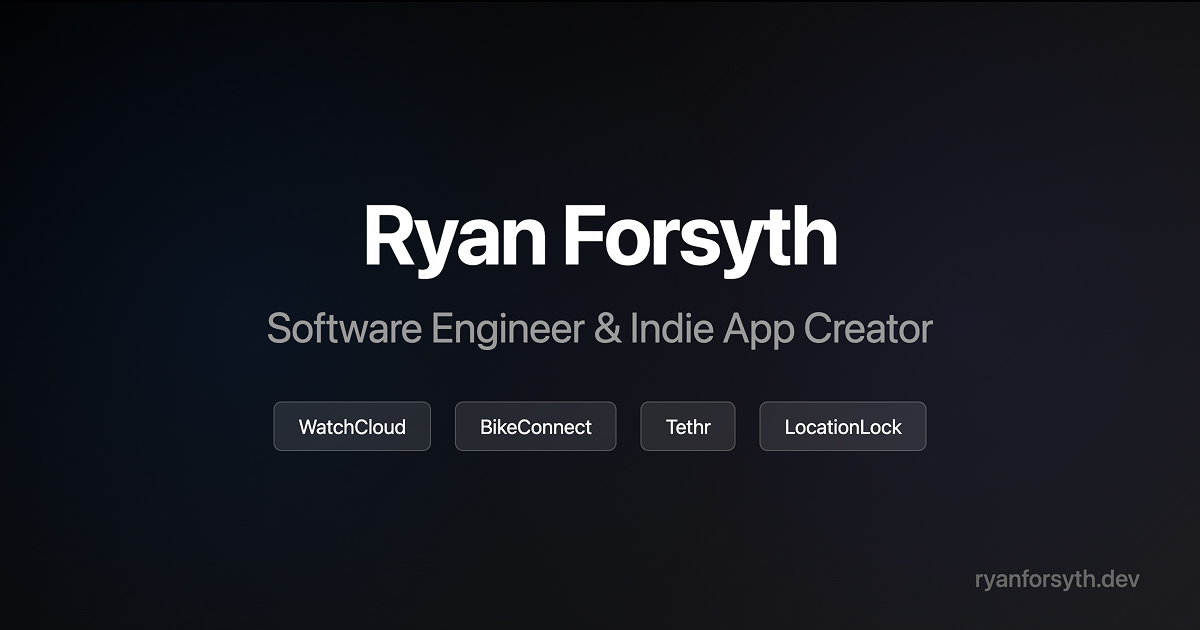
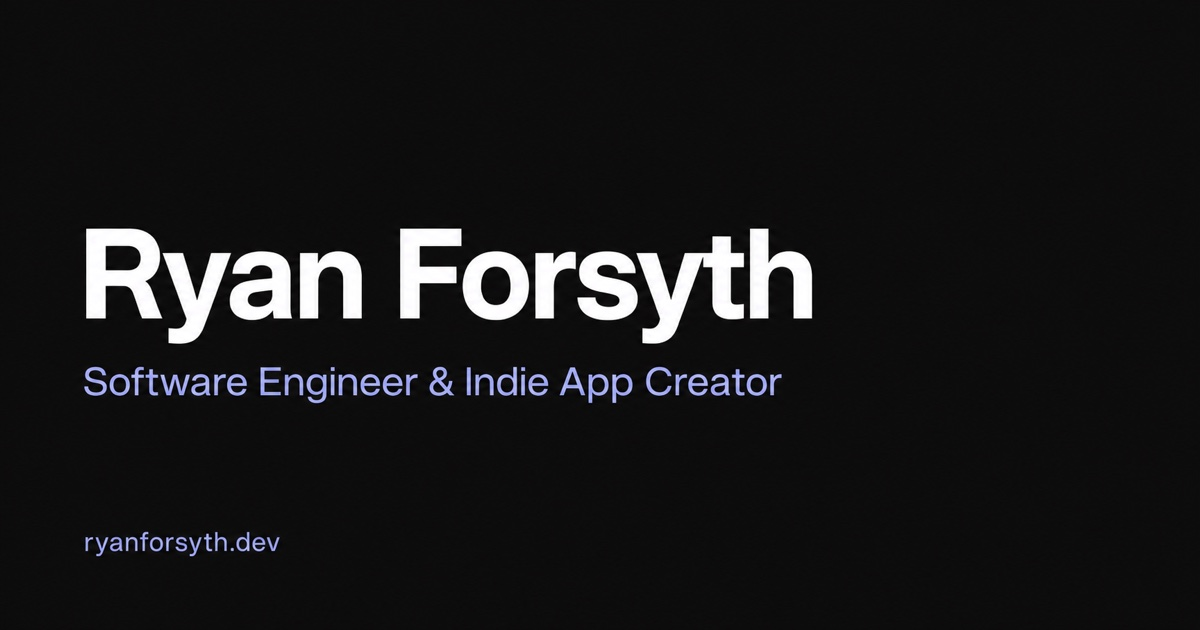
😎 Update og-image, subtitle colour

Changed region(s): [[0.0617, 0.3016, 0.8942, 0.7238], [0.0617, 0.8444, 0.2467, 0.8746], [0.8017, 0.9048, 0.9558, 0.9349]]

diff --git a/src/App.css b/src/App.css
@@ -106,7 +106,7 @@
 
 .hero-subtitle {
   font-size: clamp(1.125rem, 2.5vw, 1.5rem);
-  color: var(--text-secondary);
+  color: var(--accent);
   margin-bottom: var(--spacing-2xl);
   font-weight: 400;
 }
@@ -325,6 +325,10 @@
     min-height: calc(100vh - var(--header-height));
     min-height: calc(100svh - var(--header-height));
     padding: var(--spacing-xl) var(--spacing-md);
+  }
+
+  .hero-title {
+    margin-bottom: var(--spacing-sm);
   }
 
   .section {
